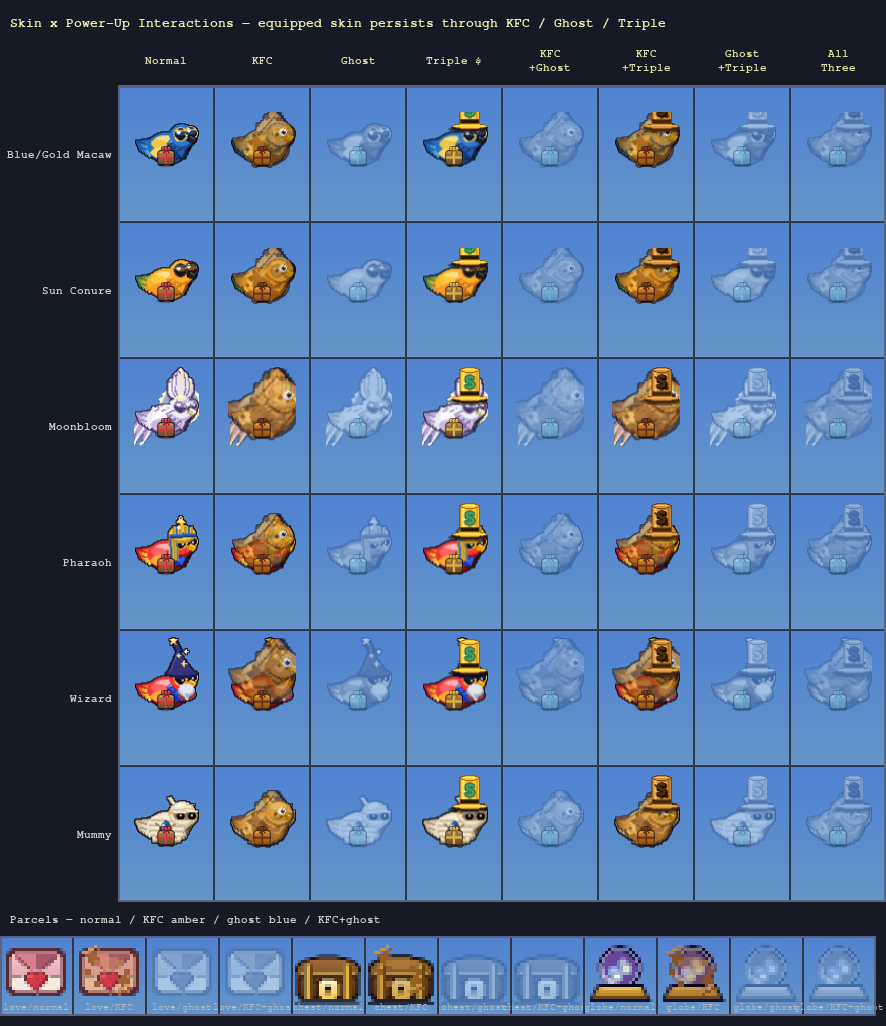
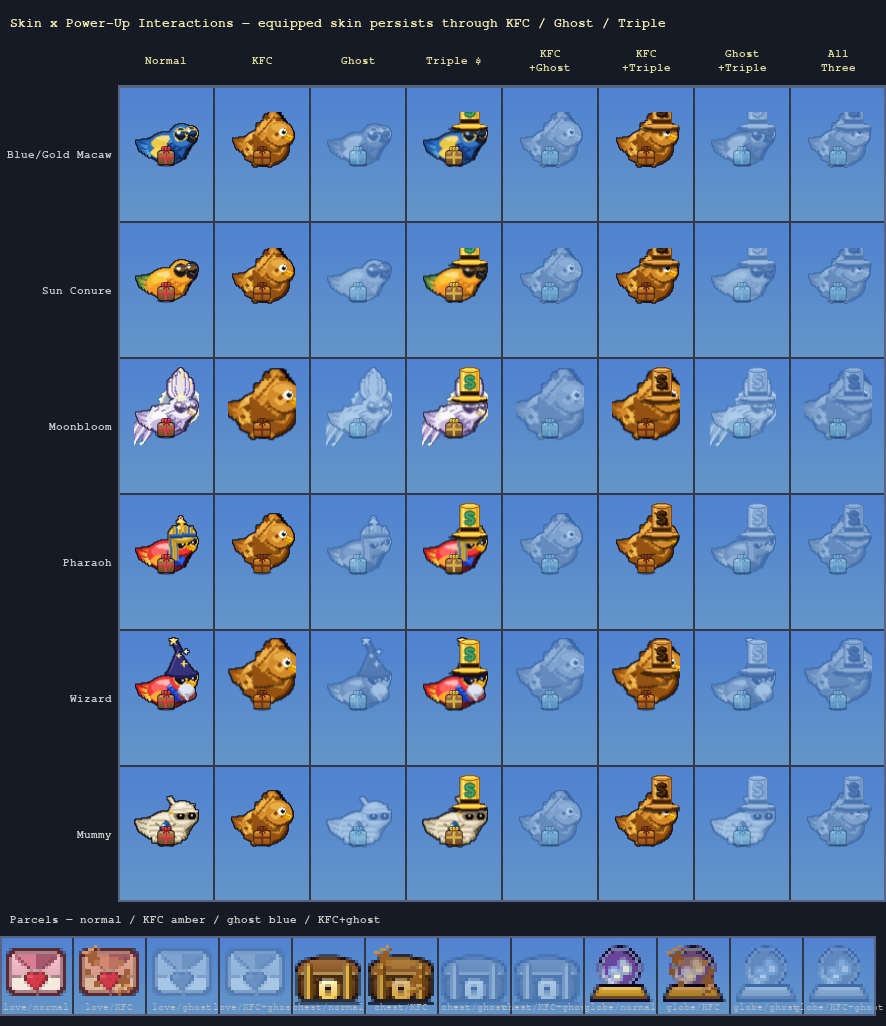
fix: KFC mode shows only fried body — no skin bleed-through
Erase the skin canvas before blitting the KFC fried frame so nothing from
the original costume or parrot is visible. Matches what the base macaw KFC
does (bespoke sprite drawn from scratch). Content-aware scaling retained:
parrot skins (content_height≈64) stay at scale=1.0; costume skins with
tall accessories scale proportionally so the fried body covers their full
visual extent.

diff --git a/game/parrot.py b/game/parrot.py
@@ -1158,11 +1158,8 @@ def build_skin_powerup_composites(skin_id: str) -> None:
                     ax = (iw - 68) // 2
                     ay = (ih - 64) // 2
                     if kfc_f:
-                        # Warm the ~30% skin that shows through toward amber.
-                        _cyan_tint_in_place(img, tint=_CRISPY_GOLD, strength=0.35)
-                        # Scale KFC fried frame to match this skin's content extent.
-                        # Parrot skins (content_height≈64): scale=1.0, unchanged.
-                        # Costume skins with accessories: scale covers hat/staff/etc.
+                        # KFC shows only the fried body — erase skin so nothing bleeds through.
+                        img.fill((0, 0, 0, 0))
                         kfc_frame = _get_kfc_frames()[fi].copy()
                         kw, kh = kfc_frame.get_size()
                         if kfc_content_scale > 1.0:
@@ -1170,7 +1167,6 @@ def build_skin_powerup_composites(skin_id: str) -> None:
                                 kfc_frame,
                                 (int(kw * kfc_content_scale), int(kh * kfc_content_scale)))
                             kw, kh = kfc_frame.get_size()
-                        kfc_frame.fill((255, 255, 255, 178), special_flags=pygame.BLEND_RGBA_MULT)
                         img.blit(kfc_frame,
                                  (_content_rect.centerx - kw // 2,
                                   _content_rect.centery - kh // 2))
